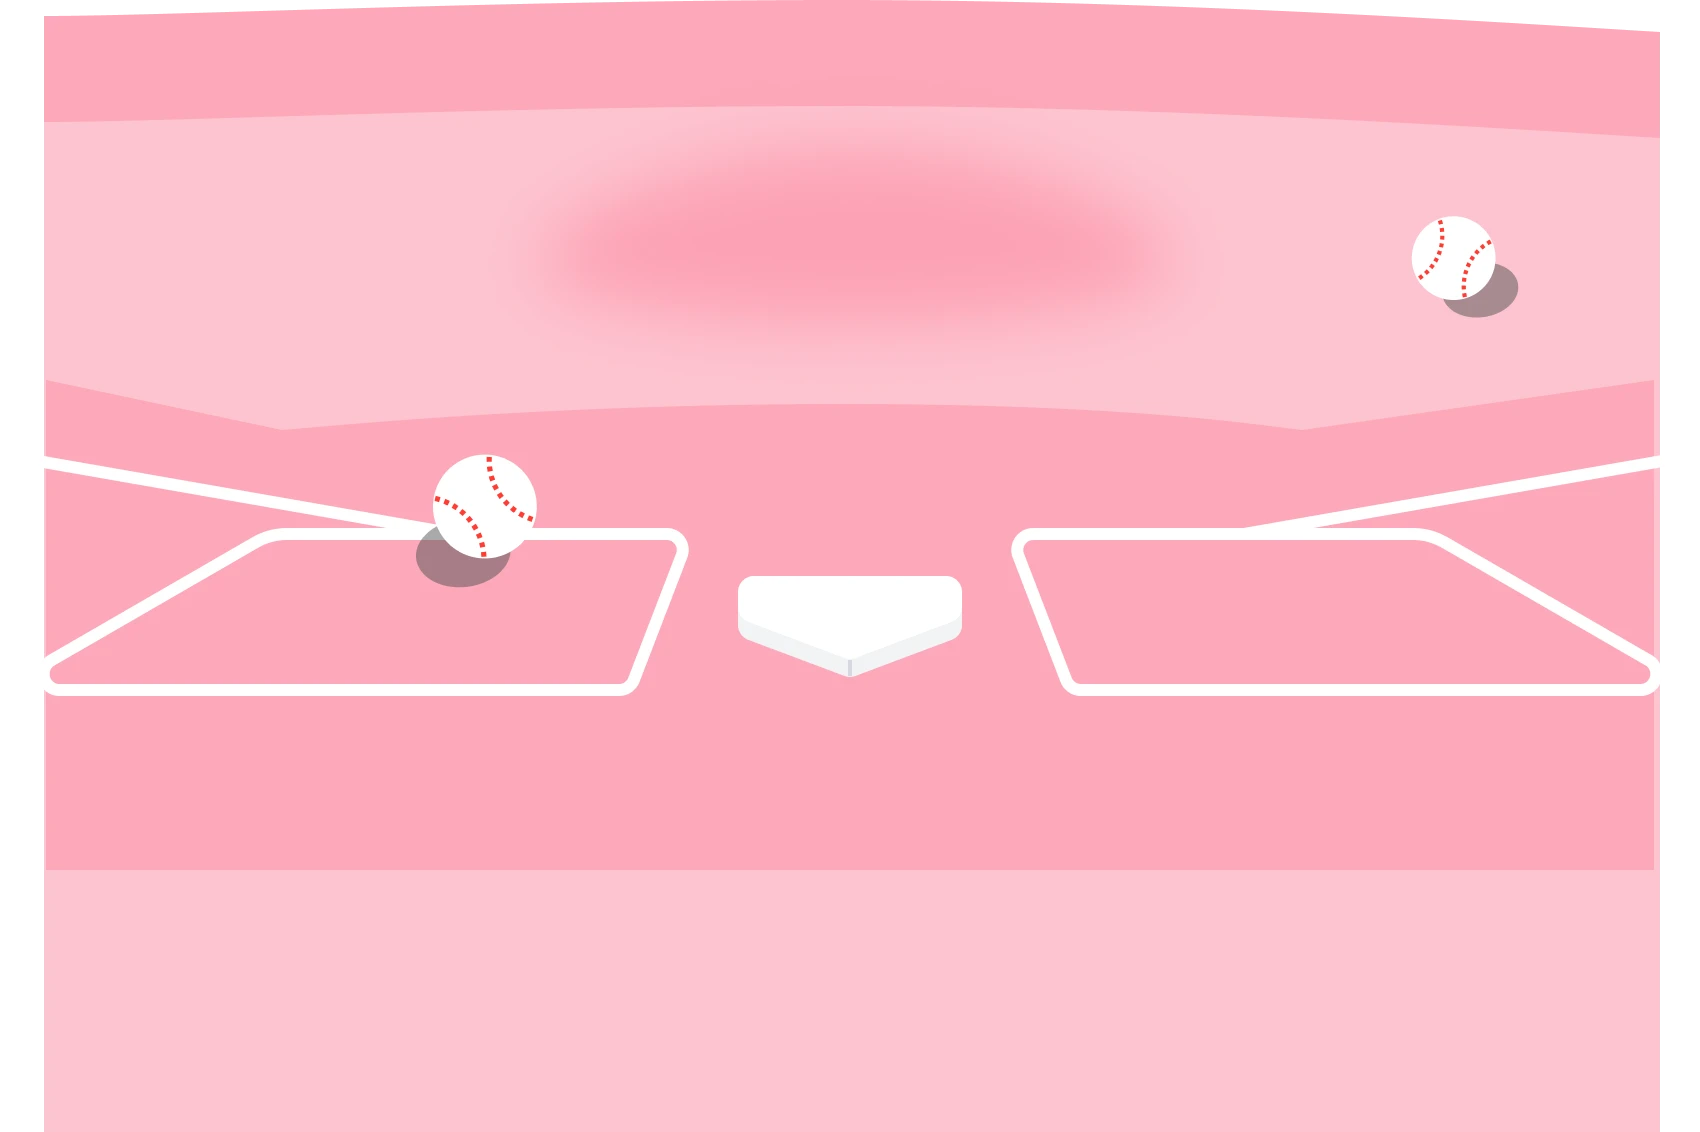
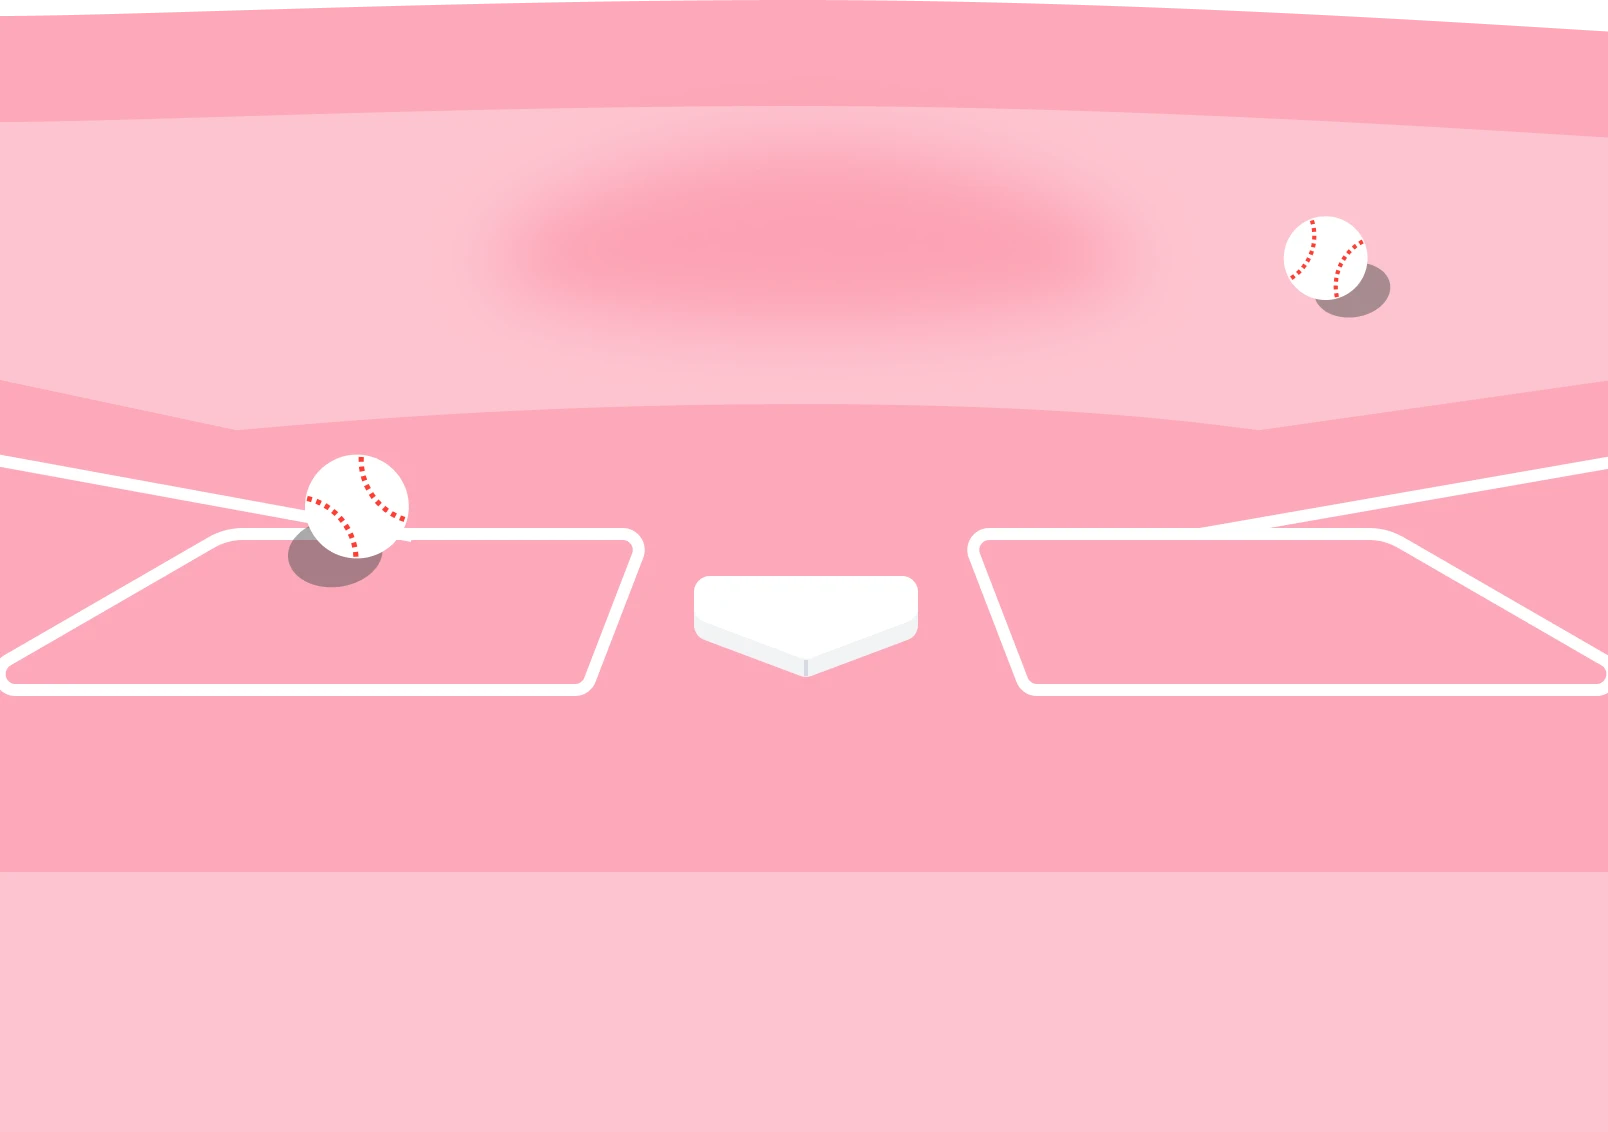
(#73) 🎨 design: 온보딩 마지막 페이지 배경 이미지 변경 및 루키 위치 조정

diff --git a/src/pages/Onboarding/Signup/SignupPage3.tsx b/src/pages/Onboarding/Signup/SignupPage3.tsx
@@ -39,7 +39,7 @@ const Page = ({onComplete}: Props) => {
             </div>
             
             <Image 
-                src={signupZonePinkIcon} 
+                src={onboardingZoneBackgroundIcon} 
                 alt="핑크 야구장 배경 아마자" 
                 className="absolute bottom-0 left-0 w-full z-[-1]" 
             />
@@ -51,7 +51,7 @@ const Page = ({onComplete}: Props) => {
                     <Image 
                         src={onboardingRookieIcon} 
                         alt="루키" 
-                        className="absolute bottom-[190px] left-1/2 transform -translate-x-1/2"
+                        className="absolute bottom-[170px] left-1/2 transform -translate-x-1/2"
                         width={255}
                         height={319}
                     />
